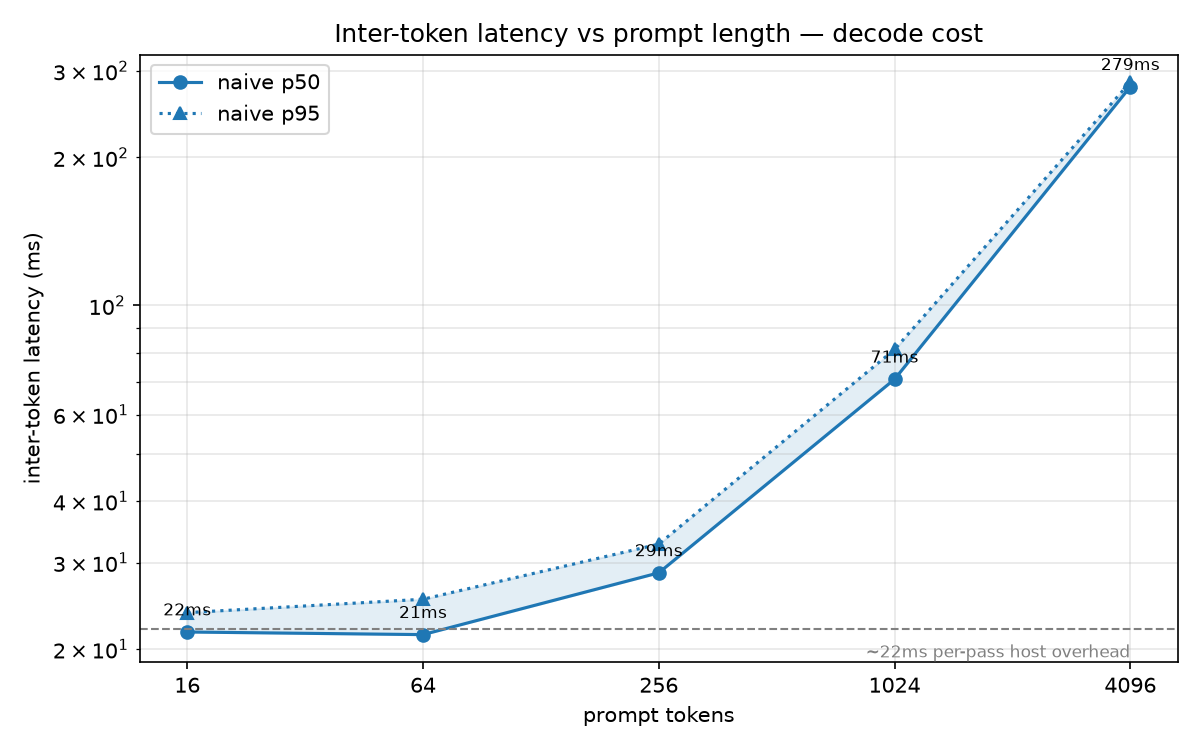
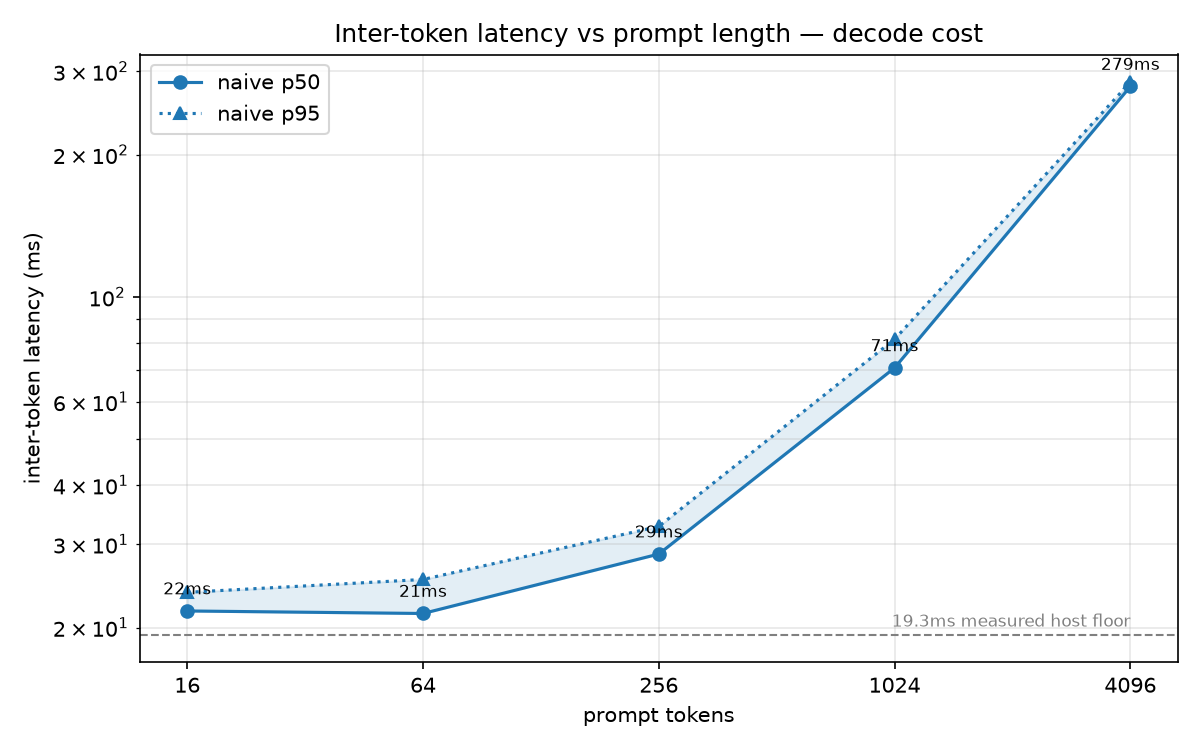
Pin sdpa attention, correct causal FLOP count, measure overhead floor
Attention backend was left to the transformers default and never recorded,
leaving MFU bounded between 36.3 and 40.7 percent. Pinned to sdpa in
load_model and surfaced via describe. Intercepting the actual call shows
attn_mask=None, is_causal=True across all 28 layers, which dispatches to a
kernel that skips causally masked entries, so the attention coefficient
halves to 86,016 and p4096 MFU resolves to 36.3 percent.

The 22ms per pass cost was fitted from prefill timings. measure_overhead.py
measures it instead: 19.32ms, of which 18.54ms is CPU, from 1,123 kernel
launches at 16.5us each. Per token sync costs 0.23ms, so the harness is not
distorting results. Prediction for the cache updated accordingly.

diff --git a/scripts/measure_overhead.py b/scripts/measure_overhead.py
@@ -1,0 +1,139 @@
+"""Measure the per-forward-pass CPU cost directly, instead of fitting it.
+
+    uv run modal run scripts/measure_overhead.py
+
+Prefill wall-clock is flat across p16/p64/p256 despite 16x more arithmetic,
+which implies a fixed per-pass cost. Rather than fit that number from the
+benchmark, this measures it: a pass over a single token is the smallest
+possible amount of GPU work, so whatever it costs is the floor.
+
+Three timings separate the pieces:
+
+  pipelined   sync only after all reps    -> max(cpu, gpu), the real floor
+  serialized  sync after every rep        -> what DecodeTrace.mark() does
+  cpu_only    clock stopped before sync   -> host cost with the GPU excluded
+
+pipelined vs serialized is the cost of the harness's per-token instrumentation.
+"""
+
+from __future__ import annotations
+
+import statistics
+import sys
+from pathlib import Path
+from time import perf_counter
+
+ROOT = Path(__file__).resolve().parent.parent
+sys.path.insert(0, str(ROOT))
+
+import modal  # noqa: E402
+
+from modal_app import GPU, image  # noqa: E402
+
+app = modal.App("inference-overhead", image=image)
+
+
+@app.function(gpu=GPU, timeout=900)
+def measure(reps: int = 50, seq_lens: tuple[int, ...] = (1, 256, 4096)) -> dict:
+    import torch
+    from torch.profiler import ProfilerActivity, profile
+
+    from infer.core import EngineConfig
+    from infer.engines import build_engine
+
+    engine = build_engine("naive", EngineConfig(device="cuda", dtype="float16"))
+    model = engine.model
+
+    out: dict = {
+        "attn_implementation": getattr(
+            model.config, "_attn_implementation", "unset"
+        ),
+        "device": torch.cuda.get_device_name(0),
+        "reps": reps,
+        "by_seq_len": {},
+    }
+
+    with torch.no_grad():
+        for n in seq_lens:
+            ids = torch.randint(0, 1000, (1, n), device="cuda")
+
+            def one() -> None:
+                model(input_ids=ids, use_cache=False, logits_to_keep=1)
+
+            for _ in range(10):  # warm: kernel autotune, allocator, cache
+                one()
+            torch.cuda.synchronize()
+
+            # Pipelined: the CPU may run ahead of the GPU across reps.
+            torch.cuda.synchronize()
+            t0 = perf_counter()
+            for _ in range(reps):
+                one()
+            torch.cuda.synchronize()
+            pipelined = (perf_counter() - t0) / reps
+
+            # Serialized: a hard barrier after each pass, as the harness does.
+            torch.cuda.synchronize()
+            t0 = perf_counter()
+            for _ in range(reps):
+                one()
+                torch.cuda.synchronize()
+            serialized = (perf_counter() - t0) / reps
+
+            # CPU only: launches are async, so returning from one() means the
+            # work is queued, not done. Drain first so the queue never
+            # backpressures and the CPU is never blocked by the GPU.
+            cpu_times = []
+            for _ in range(reps):
+                torch.cuda.synchronize()
+                t0 = perf_counter()
+                one()
+                cpu_times.append(perf_counter() - t0)
+            torch.cuda.synchronize()
+            cpu_only = statistics.median(cpu_times)
+
+            # Launch count, to turn "us per pass" into "us per launch".
+            with profile(activities=[ProfilerActivity.CUDA]) as prof:
+                one()
+                torch.cuda.synchronize()
+            launches = 0
+            for e in prof.key_averages():
+                t = getattr(e, "self_device_time_total", None)
+                if t is None:
+                    t = getattr(e, "self_cuda_time_total", 0)
+                if t > 0:
+                    launches += e.count
+
+            out["by_seq_len"][n] = {
+                "pipelined_ms": pipelined * 1000,
+                "serialized_ms": serialized * 1000,
+                "cpu_only_ms": cpu_only * 1000,
+                "launches": launches,
+            }
+
+    return out
+
+
+@app.local_entrypoint()
+def main(reps: int = 50) -> None:
+    r = measure.remote(reps)
+
+    print(f"\ndevice   : {r['device']}")
+    print(f"attn     : {r['attn_implementation']}")
+    print(f"reps     : {r['reps']}\n")
+
+    head = (f"{'seq_len':>8}{'pipelined':>12}{'serialized':>12}{'cpu_only':>11}"
+            f"{'launches':>10}{'us/launch':>11}")
+    print(head)
+    print("-" * len(head))
+    for n, m in r["by_seq_len"].items():
+        per_launch = m["cpu_only_ms"] * 1000 / m["launches"] if m["launches"] else float("nan")
+        print(f"{n:>8}{m['pipelined_ms']:>11.2f}ms{m['serialized_ms']:>11.2f}ms"
+              f"{m['cpu_only_ms']:>10.2f}ms{m['launches']:>10}{per_launch:>11.1f}")
+
+    one = r["by_seq_len"].get(1)
+    if one:
+        print(f"\nfloor (seq_len=1, pipelined) : {one['pipelined_ms']:.2f} ms"
+              f"   vs 5.1 ms bandwidth-bound")
+        print(f"instrumentation cost         : "
+              f"{one['serialized_ms'] - one['pipelined_ms']:+.2f} ms/pass")

diff --git a/scripts/plot.py b/scripts/plot.py
@@ -21,10 +21,11 @@ import matplotlib.pyplot as plt  # noqa: E402
 
 RESULTS_DIR = Path(__file__).resolve().parent.parent / "results"
 
-# Fitted from the naive prefill timings: wall clock per forward pass is flat
-# at roughly this value until compute overtakes it. Drawn as a reference line
-# because three of the five prompts sit on it.
-OVERHEAD_FLOOR_MS = 22.0
+# Measured by scripts/measure_overhead.py: a forward pass over a single token,
+# synced only after all repeats. 18.54 ms of it is CPU, so this is the host
+# floor a forward pass cannot go below. Drawn as a reference line because the
+# three shortest prompts sit on it.
+OVERHEAD_FLOOR_MS = 19.32
 
 
 def load(include_warmup: bool = False) -> dict[str, list[dict]]:
@@ -62,11 +63,11 @@ def annotate(ax, xs, ys, fmt: str) -> None:
 
 
 def _overhead_line(ax) -> None:
-    """Reference line for the fitted per-pass host overhead."""
+    """Reference line for the measured per-pass host floor."""
     ax.axhline(OVERHEAD_FLOOR_MS, ls="--", lw=1, color="grey")
-    ax.text(4096, OVERHEAD_FLOOR_MS * 0.93,
-            f"~{OVERHEAD_FLOOR_MS:.0f}ms per-pass host overhead",
-            fontsize=8, color="grey", ha="right", va="top")
+    ax.text(4096, OVERHEAD_FLOOR_MS * 1.02,
+            f"{OVERHEAD_FLOOR_MS:.1f}ms measured host floor",
+            fontsize=8, color="grey", ha="right", va="bottom")
 
 
 def plot_ttft(by_engine: dict[str, list[dict]], out: Path) -> Path:

diff --git a/infer/runtime.py b/infer/runtime.py
@@ -85,8 +85,14 @@ def load_model(device_str: str, dtype_str: str):
 
     t0 = perf_counter()
     tokenizer = AutoTokenizer.from_pretrained(MODEL_NAME, local_files_only=True)
+    # Pinned rather than left to the library default. The attention backend
+    # determines whether causally-masked score entries are computed or
+    # skipped, which changes the FLOP count an engine should be credited with.
+    # "sdpa" is the value transformers selected for the naive baseline, so
+    # fixing it here preserves comparability if that default ever moves.
     model = AutoModelForCausalLM.from_pretrained(
-        MODEL_NAME, dtype=dtype, local_files_only=True
+        MODEL_NAME, dtype=dtype, local_files_only=True,
+        attn_implementation="sdpa",
     )
     model = model.to(device)
     model.eval()

diff --git a/infer/engines/naive.py b/infer/engines/naive.py
@@ -29,7 +29,11 @@ class NaiveEngine:
         self.memory = MemoryProbe(self.device)
 
     def describe(self) -> dict[str, str]:
-        return {"kv_cache": "false", "logits_to_keep": "1"}
+        return {
+            "kv_cache": "false",
+            "logits_to_keep": "1",
+            "attn": getattr(self.model.config, "_attn_implementation", "unset"),
+        }
 
     def generate(
         self, prompts: Sequence[str], cfg: SamplingConfig

diff --git a/results/naive/analysis.md b/results/naive/analysis.md
@@ -57,21 +57,25 @@ as it becomes slower.
 
 FLOPs are counted as: body `2 × 1.31e9 × Σn` (non-embedding parameters), LM
 head `2 × 0.233e9 × 256` (once per step, because `logits_to_keep=1`), and
-attention `172,032 × Σn²` for `QK^T` and `attn @ V` across all 28 layers.
+attention `86,016 × Σn²` for `QK^T` and `attn @ V` across all 28 layers. The
+attention coefficient is half the full `4 · d · L`: the backend is pinned to
+`sdpa` and receives `attn_mask=None, is_causal=True`, which dispatches to a
+kernel that skips causally-masked entries rather than computing and
+discarding them.
 
 | prompt | total FLOPs | attention share | total time | achieved | MFU |
 |---|---|---|---|---|---|
-| p16 | 97.5 TF | 1.2% | 5.606s | 17.4 TFLOPS | 13.9% |
-| p64 | 130.5 TF | 1.4% | 5.661s | 23.0 TFLOPS | 18.4% |
-| p256 | 264.1 TF | 2.5% | 7.291s | 36.2 TFLOPS | 29.0% |
-| p1024 | 831.3 TF | 7.1% | 18.694s | 44.5 TFLOPS | 35.6% |
-| p4096 | 3619.5 TF | 21.7% | 71.146s | 50.9 TFLOPS | 40.7% |
+| p16 | 97.0 TF | 0.6% | 5.606s | 17.3 TFLOPS | 13.8% |
+| p64 | 129.5 TF | 0.7% | 5.661s | 22.9 TFLOPS | 18.3% |
+| p256 | 260.8 TF | 1.3% | 7.291s | 35.8 TFLOPS | 28.6% |
+| p1024 | 802.0 TF | 3.7% | 18.694s | 42.9 TFLOPS | 34.3% |
+| p4096 | 3226.5 TF | 12.2% | 71.146s | 45.4 TFLOPS | 36.3% |
 
 `achieved = total FLOPs / total time`, and `MFU = achieved / 125 TFLOPS`.
 Time is the only measured quantity in this table; the FLOP counts are derived
 from the architecture (see the full calculation: [MFU Calculation](mfu_calculation.md)).
 
-MFU rises monotonically from 13.9% to 40.7% against the A10's 125 TFLOPS
+MFU rises monotonically from 13.8% to 36.3% against the A10's 125 TFLOPS
 fp16 peak. At short prompts each forward pass is only 16 to (16 + 256) tokens wide so
 the matmuls are small. At p4096 the matmuls are way larger.
 
@@ -89,9 +93,9 @@ through:
 | p256 | 256 → 511 | 0% |
 
 **p256 is the first prompt that is fully compute bound**, which is where
-the MFU curve bends hardest (18.4% → 29.0%).
+the MFU curve bends hardest (18.3% → 28.6%).
 
-Attention's share of total FLOPs grows from 1.2% to 21.7% as context grows,
+Attention's share of total FLOPs grows from 0.6% to 12.2% as context grows,
 which is the quadratic term becoming visible. It is still not dominant at 4K
 for a model this small. The MLP is still the bulk of the work but the trend is
 the reason attention kernels matter at longer contexts.
@@ -140,32 +144,50 @@ Landing well short of that ceiling while staying flat would indicate host and
 kernel launch overhead rather than bandwidth, since a 1.5B model gives each
 step only a few milliseconds of GPU work to hide that overhead behind.
 
+## The overhead floor, measured
+
+The TTFT curve suggests a fixed per pass cost. Prefill is flat across p16,
+p64 and p256 despite 16× more arithmetic. To verify this, I ran `scripts/measure_overhead.py`
+which runs a forward pass over a single token. To allow for the smallest possible amount of GPU work
+so whatever it costs is the fixed cost
+
+| seq_len | pipelined | serialized | cpu only | launches | µs/launch |
+|---|---|---|---|---|---|
+| 1 | 19.32 ms | 19.55 ms | 18.54 ms | 1,123 | 16.5 |
+
+The floor was measured to be 19.32 ms, and 18.54 ms of it is CPU, The GPU contributes
+under a millisecond at seq_len 1. That is ~96% host-bound: I measured 1,123 kernel launches at 16.5 µs each.
+
+- The per token sync in `DecodeTrace` costs 0.23 ms, about 1.2%. It is not
+  distorting the results. The reason is structural — `serialized ≈ pipelined`
+  because there is nothing to pipeline. The CPU is the bottleneck, so the GPU
+  is already idle and a barrier costs nothing. At seq_len 4096 the same
+  equality holds for the opposite reason: 249 ms of GPU work makes a sync
+  invisible.
+
 ## Prediction, recorded before building the cache
 
-The TTFT curve fixes a number that sharpens this. Prefill is flat at ~22 ms
-across p16, p64 and p256 despite 16× more arithmetic, so roughly **22 ms is
-fixed per-pass CPU cost**. The CPU runs in parallel with the GPU, so that
-cost only shows up when it outlasts the GPU work: step time is
-`max(cpu, gpu)`, not their sum.
-
-A cached step has 5.1 ms of GPU work. That is smaller than the 22 ms it would
-need to hide behind, so the cache should land at **~22 ms/step ≈ 45 tok/s,
-flat across every prompt length** — not the 194 tok/s bandwidth ceiling.
+A cached step has ~5.1 ms of GPU work against a 19.32 ms host floor. Step time
+is `max(cpu, gpu)`, since the CPU runs in parallel with the GPU, so the cache
+should land at **~19–20 ms/step ≈ 50 tok/s, flat across every prompt
+length** — not the 194 tok/s bandwidth ceiling.
 
 | prompt | naive | predicted cached | predicted speedup |
 |---|---|---|---|
-| p16 | 45.66 tok/s | ~45 | **~1.0×** |
-| p64 | 45.22 tok/s | ~45 | ~1.0× |
-| p256 | 35.08 tok/s | ~45 | ~1.3× |
-| p1024 | 13.69 tok/s | ~45 | ~3.3× |
-| p4096 | 3.60 tok/s | ~45 | ~12.6× |
+| p16 | 45.66 tok/s | ~52 | ~1.1x |
+| p64 | 45.22 tok/s | ~52 | ~1.2× |
+| p256 | 35.08 tok/s | ~52 | ~1.5× |
+| p1024 | 13.69 tok/s | ~52 | ~3.8× |
+| p4096 | 3.60 tok/s | ~52 | ~14× |
 
-The KV cache will buy essentially nothing at short prompts.
-Naive already runs at 21.9 ms/step at p16. It is sitting on
-the overhead floor, not on a compute limit. Deleting redundant compute cannot
-help where compute was never the constraint. The cache should pay only once
-the recomputation it removes is large enough to have been the binding cost,
-which happens somewhere between p256 and p1024.
+The KV cache will buy essentially nothing at short prompts. Naive already runs
+at 21.9 ms/step at p16, only 13% above the 19.32 ms floor. It is sitting on
+that floor, not on a compute limit, and deleting redundant compute cannot help
+where compute was never the constraint. The cache pays only once the
+recomputation it removes is large enough to have been the binding cost, which
+happens somewhere between p256 and p1024.
 
 If that holds, the bottleneck moves from redundant computation to per step
-host overhead.
+host overhead, and the target after it is already quantified: **1,123 launches
+× 16.5 µs = 18.5 ms of pure launch cost against a 5.1 ms bandwidth floor.
+Removing this overhead is worth more at short prompts than the KV cache is.

diff --git a/README.md b/README.md
@@ -124,18 +124,43 @@ by measurement rather than assumed:
   sides of the roofline, so they are reported separately (TTFT vs
   inter-token latency)
 
+## Measurement integrity
+
+`DecodeTrace.mark()` calls `sync()` after every token, which blocks until the
+GPU drains. That is how inter-token latency is measured, and it could in
+principle inflate every result by preventing the CPU from running ahead.
+
+Measured with `scripts/measure_overhead.py`: **it costs 0.23 ms per forward
+pass, about 1.2%.** Syncing is nearly free here because there is nothing to
+pipeline — at short sequences the CPU is the bottleneck and the GPU is
+already idle, and at long sequences 249 ms of GPU work makes a barrier
+invisible. The instrumentation is not distorting the numbers.
+
 ## Open threads
 
-**Re-run benchmarks without per-token instrumentation.** `DecodeTrace.mark()`
-calls `sync()` after every token, which blocks until the GPU drains. That
-gives accurate inter-token latency but prevents the CPU from running ahead
-into the next step, so overlap is lost across step boundaries — real serving
-engines do not sync in the hot loop. Some unknown fraction of the ~22 ms
-per-pass CPU cost is therefore the measurement itself. Run the same benchmark
-twice, once with per-token marks and once with only start/end timing, and
-report the delta. The instrumentation overhead is a finding worth publishing,
-not hiding, and it needs to be known before any conclusion about host
-overhead is trusted.
+**Explore CUDA graphs to remove per-launch overhead.** A forward pass issues
+**1,123 kernel launches at ~16.5 µs each — 18.5 ms of pure CPU cost**, against
+a 5.1 ms bandwidth floor for a single decode step. At short sequences that
+makes the engine ~96% host-bound: the GPU sits idle waiting to be fed
+(`scripts/measure_overhead.py`).
+
+CUDA graphs capture the launch sequence once and replay it as a single
+submission, so the per-launch API cost mostly disappears. It is an NVIDIA API
+rather than a research idea, and it is standard in vLLM and TensorRT-LLM.
+`torch.compile(mode="reduce-overhead")` is the cheap way in, and adds kernel
+fusion on top.
+
+It cannot be applied yet. Graphs require **static shapes**, and this engine's
+input grows every step (`[1,16] → [1,17] → … → [1,271]`), which would need one
+captured graph per shape. A KV cache makes every decode step `[1,1]`, so the
+cache is a prerequisite rather than an alternative. That is also why real
+engines pad batch sizes into fixed buckets.
+
+Worth revisiting once the cache lands and per-step cost is flat across prompt
+lengths — at that point overhead is the bottleneck everywhere, not just at
+short prompts, and the change has a measured justification.
+
+Read: https://developer.nvidia.com/blog/cuda-graphs/
 
 ## Workload
 
